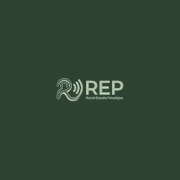
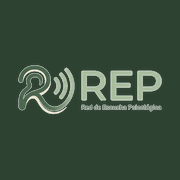
fix: use original Logo_REP.png with proper bg removal, crop, and larger size
- Process Logo_REP.png with color-distance bg removal + morphological cleanup
- Crop to content area (690x245, no empty padding)
- Navbar: h-14 sm:h-16 (was h-10 sm:h-11)
- Footer: h-12 (was h-9)
- Regenerate all favicons from cropped logo

Changed region(s): [[0.0833, 0.3611, 0.9167, 0.6389]]

diff --git a/src/components/landing-page.tsx b/src/components/landing-page.tsx
@@ -231,7 +231,7 @@ export function LandingPage() {
             <img
               src="/images/logo.png"
               alt="Red Escucha Psicológica"
-              className="h-10 sm:h-11 w-auto object-contain"
+              className="h-14 sm:h-16 w-auto object-contain"
             />
 
             {/* Desktop nav links */}
@@ -1016,7 +1016,7 @@ export function LandingPage() {
                 <img
                   src="/images/logo.png"
                   alt="Red Escucha Psicológica"
-                  className="h-9 w-auto object-contain"
+                  className="h-12 w-auto object-contain"
                 />
               </div>
               <p className="text-beige-300 text-sm font-light leading-relaxed" style={{ fontFamily: "Montserrat, sans-serif" }}>
